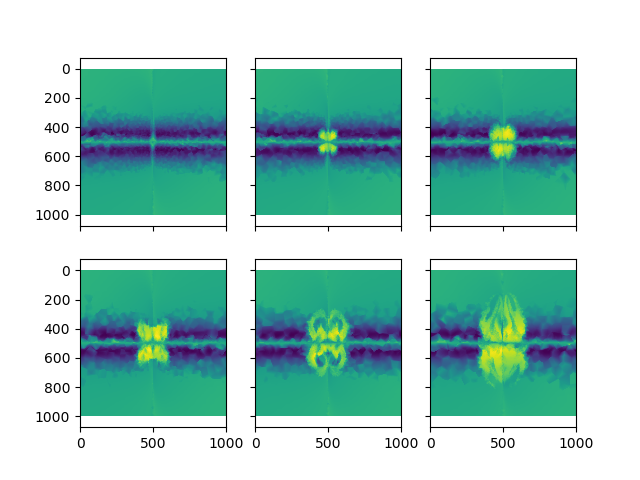
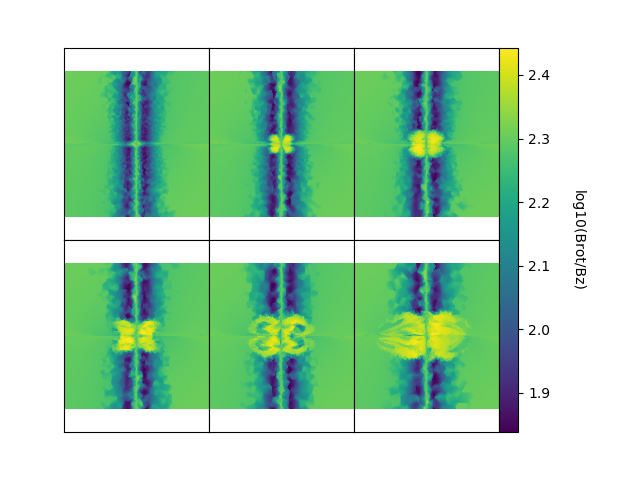
.

diff --git a/lewis_arepo_code/analyse.py b/lewis_arepo_code/analyse.py
@@ -345,10 +345,19 @@ def ratioB_plot(dirname,names):
 		bratio=np.absolute(ratioB_cube(dirname+names[5-i],0.12,1000)[:,400:600,:])
 		bratio=np.sum(bratio,1)
 		if i==0:
-			im=axs[5-i].imshow(bratio)
+			im=axs[5-i].imshow(np.log10(np.rot90(bratio)))
 			clim=im.properties()['clim']
 		else:	
-			axs[5-i].imshow(bratio,clim=clim)
+			axs[5-i].imshow(np.log10(np.rot90(bratio)),clim=clim)
+		axs[5-i].set_xticks([])
+		axs[5-i].set_yticks([])
+		axs[5-i].set_xlim(0,1000)
+		axs[5-i].set_ylim(0,1000)
+	fig.subplots_adjust(0.1,0.1,0.9,0.9,0,0)
+	cbar=fig.colorbar(im,ax=axs.tolist(), shrink=1,pad=0)
+	cbar.ax.set_ylabel('log10(Brot/Bz)', rotation=270,labelpad=25)
+	
+
 
 
 def spacial_average(snap,boxsize):
